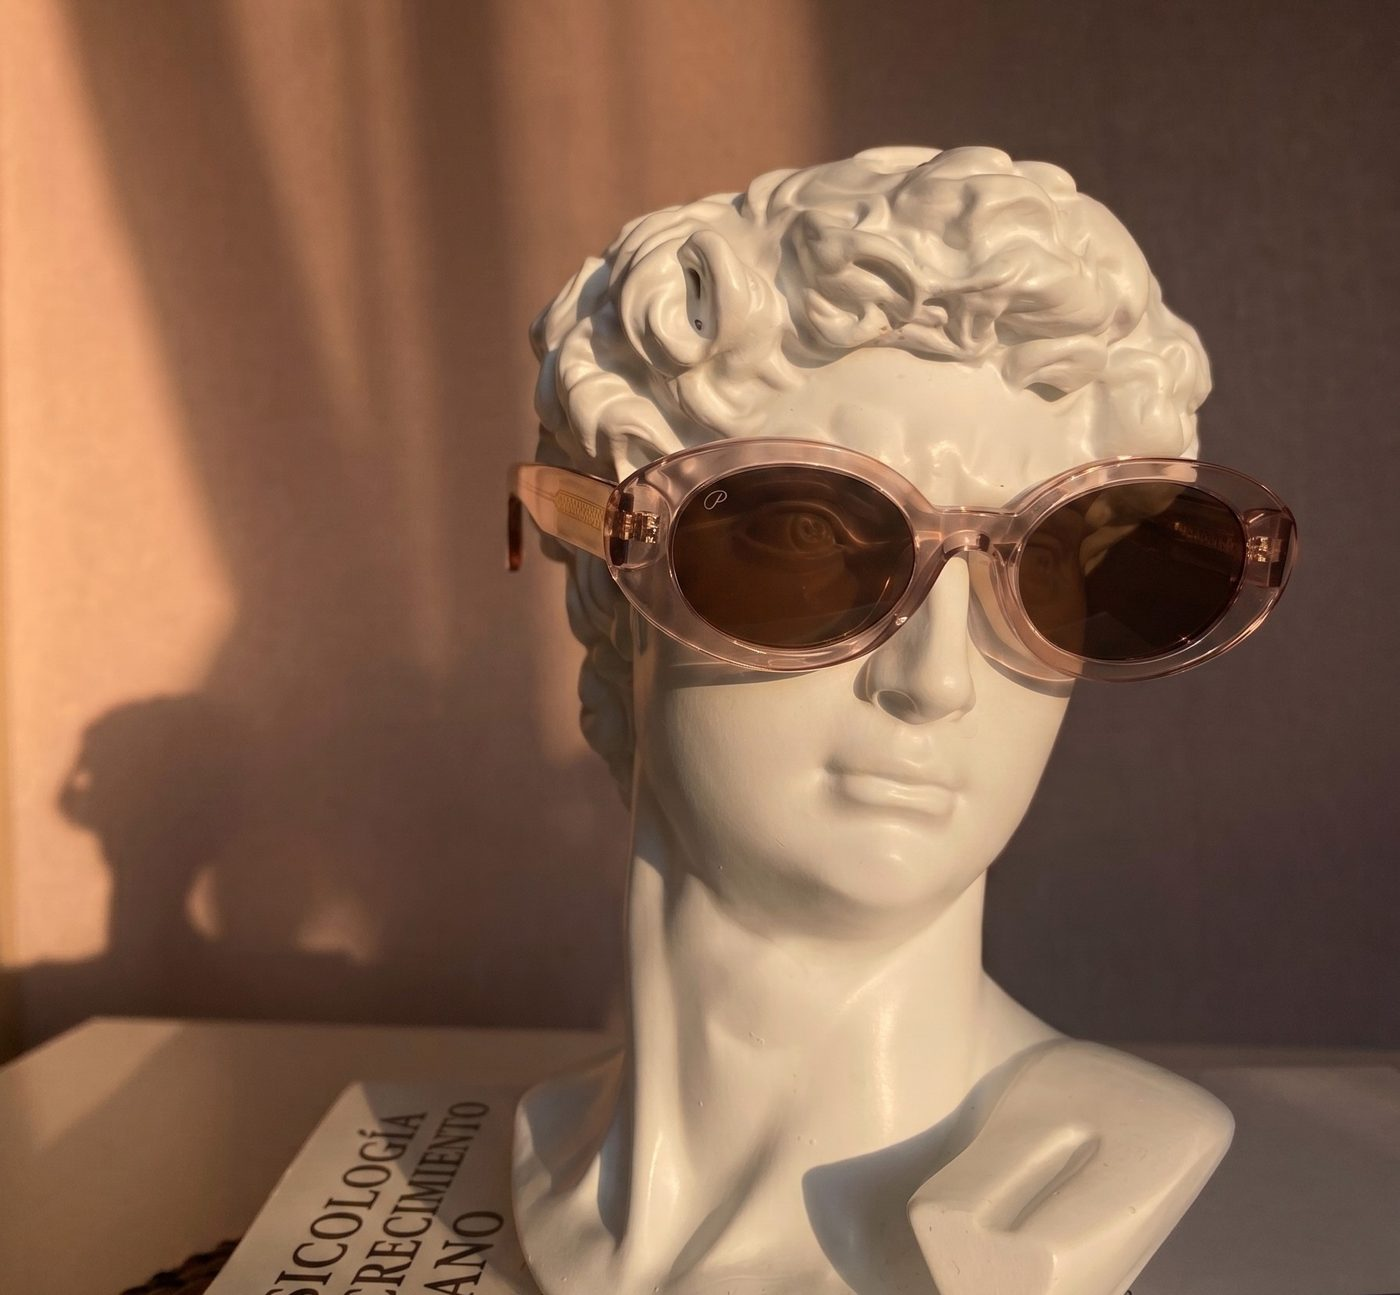
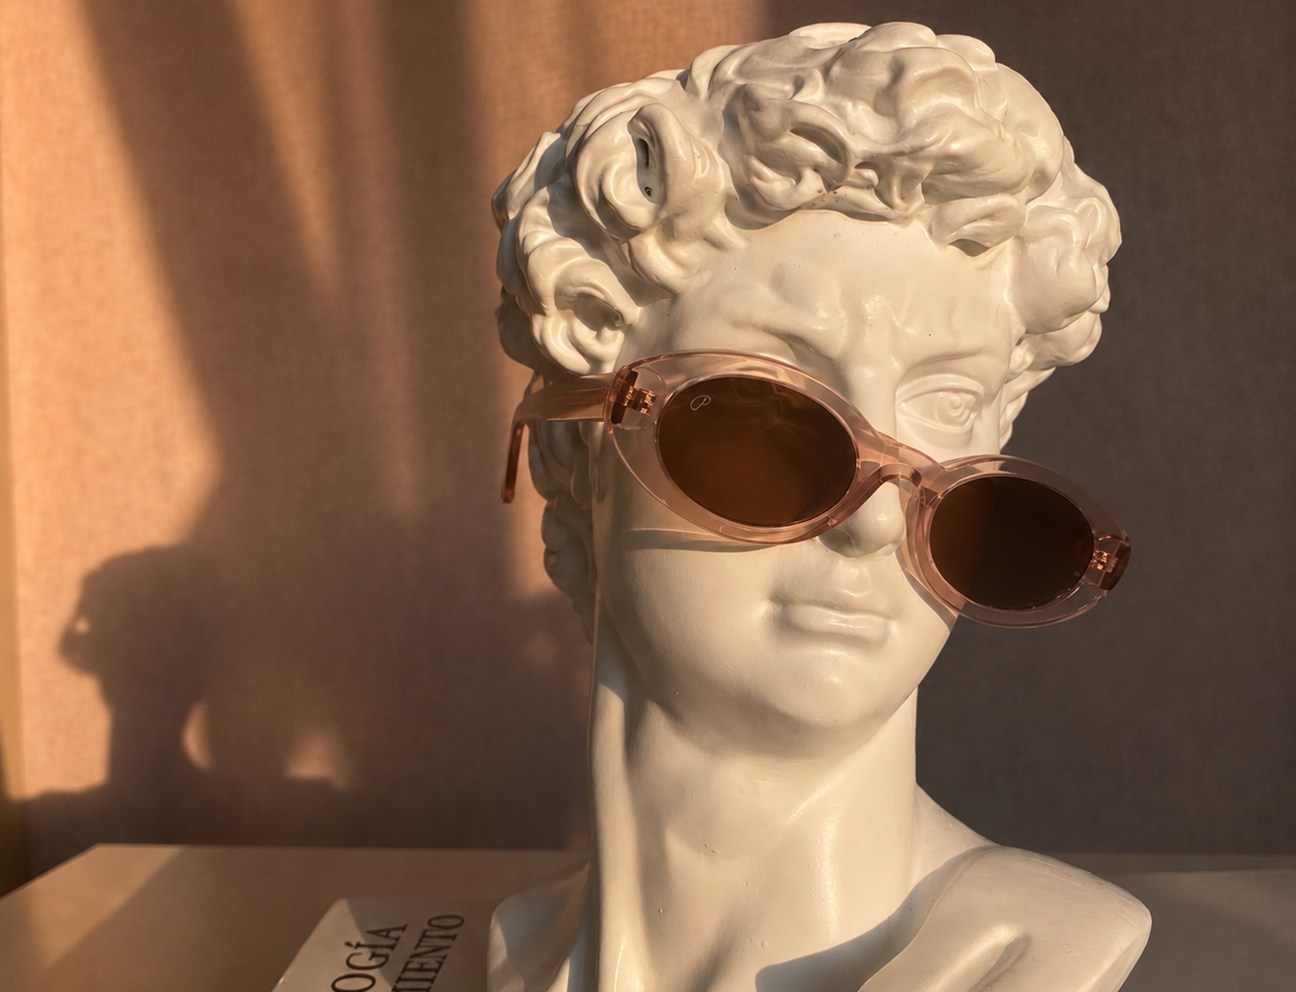
feat: reemplazar imagen editorial Panisse Boutique por busto con gafas rosas

diff --git a/index.html b/index.html
@@ -1183,13 +1183,13 @@
       <div class="home-brand__img">
         <picture>
           <source
-            srcset="assets/img/brands/panisse-boutique-editorial-800.webp 800w, assets/img/brands/panisse-boutique-editorial.webp 1400w"
+            srcset="assets/img/brands/panisse-boutique-editorial-800.jpg 800w, assets/img/brands/panisse-boutique-editorial.jpg 1296w"
             sizes="(max-width: 900px) 100vw, 50vw"
-            type="image/webp">
+            type="image/jpeg">
           <img
             src="assets/img/brands/panisse-boutique-editorial.jpg"
-            alt="Panisse Boutique — busto clásico con montura oval transparente"
-            width="1400" height="1295"
+            alt="Panisse Boutique — busto David con gafas de sol ovales rosas"
+            width="1296" height="992"
             loading="eager"
             fetchpriority="high"
             class="is-loaded"